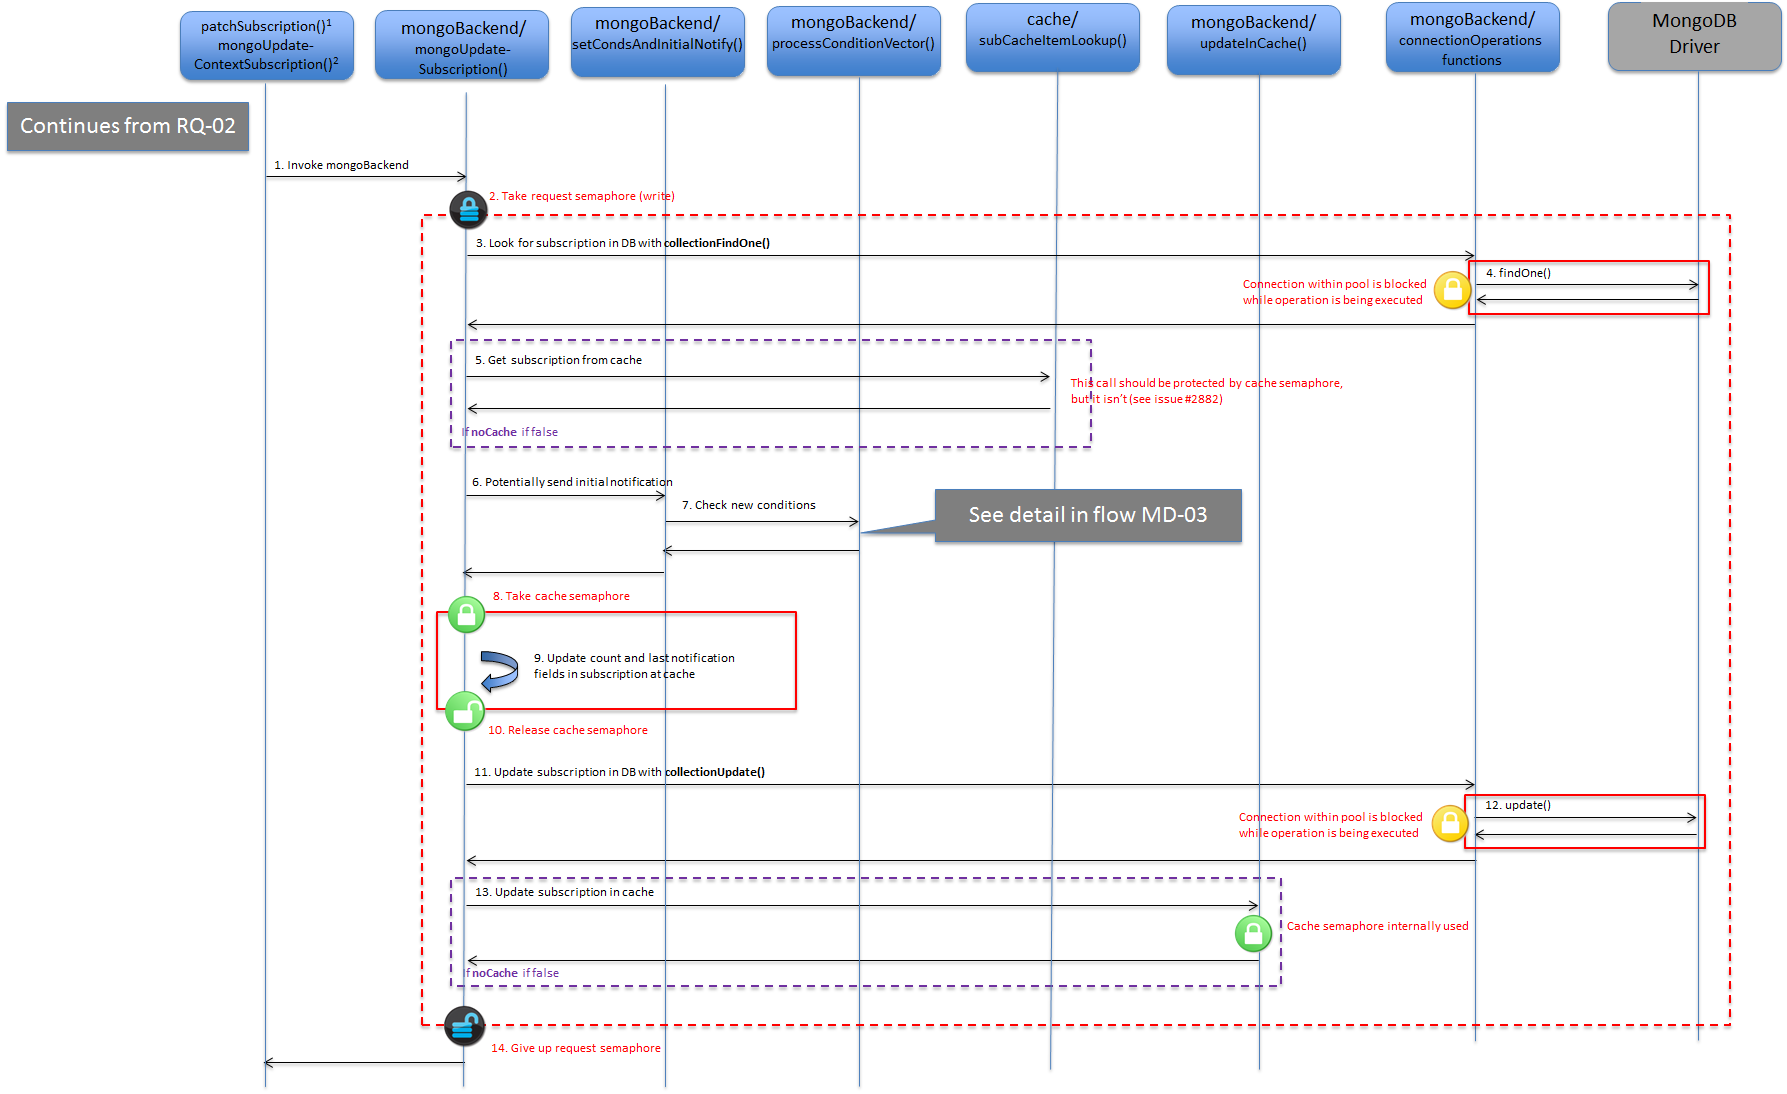
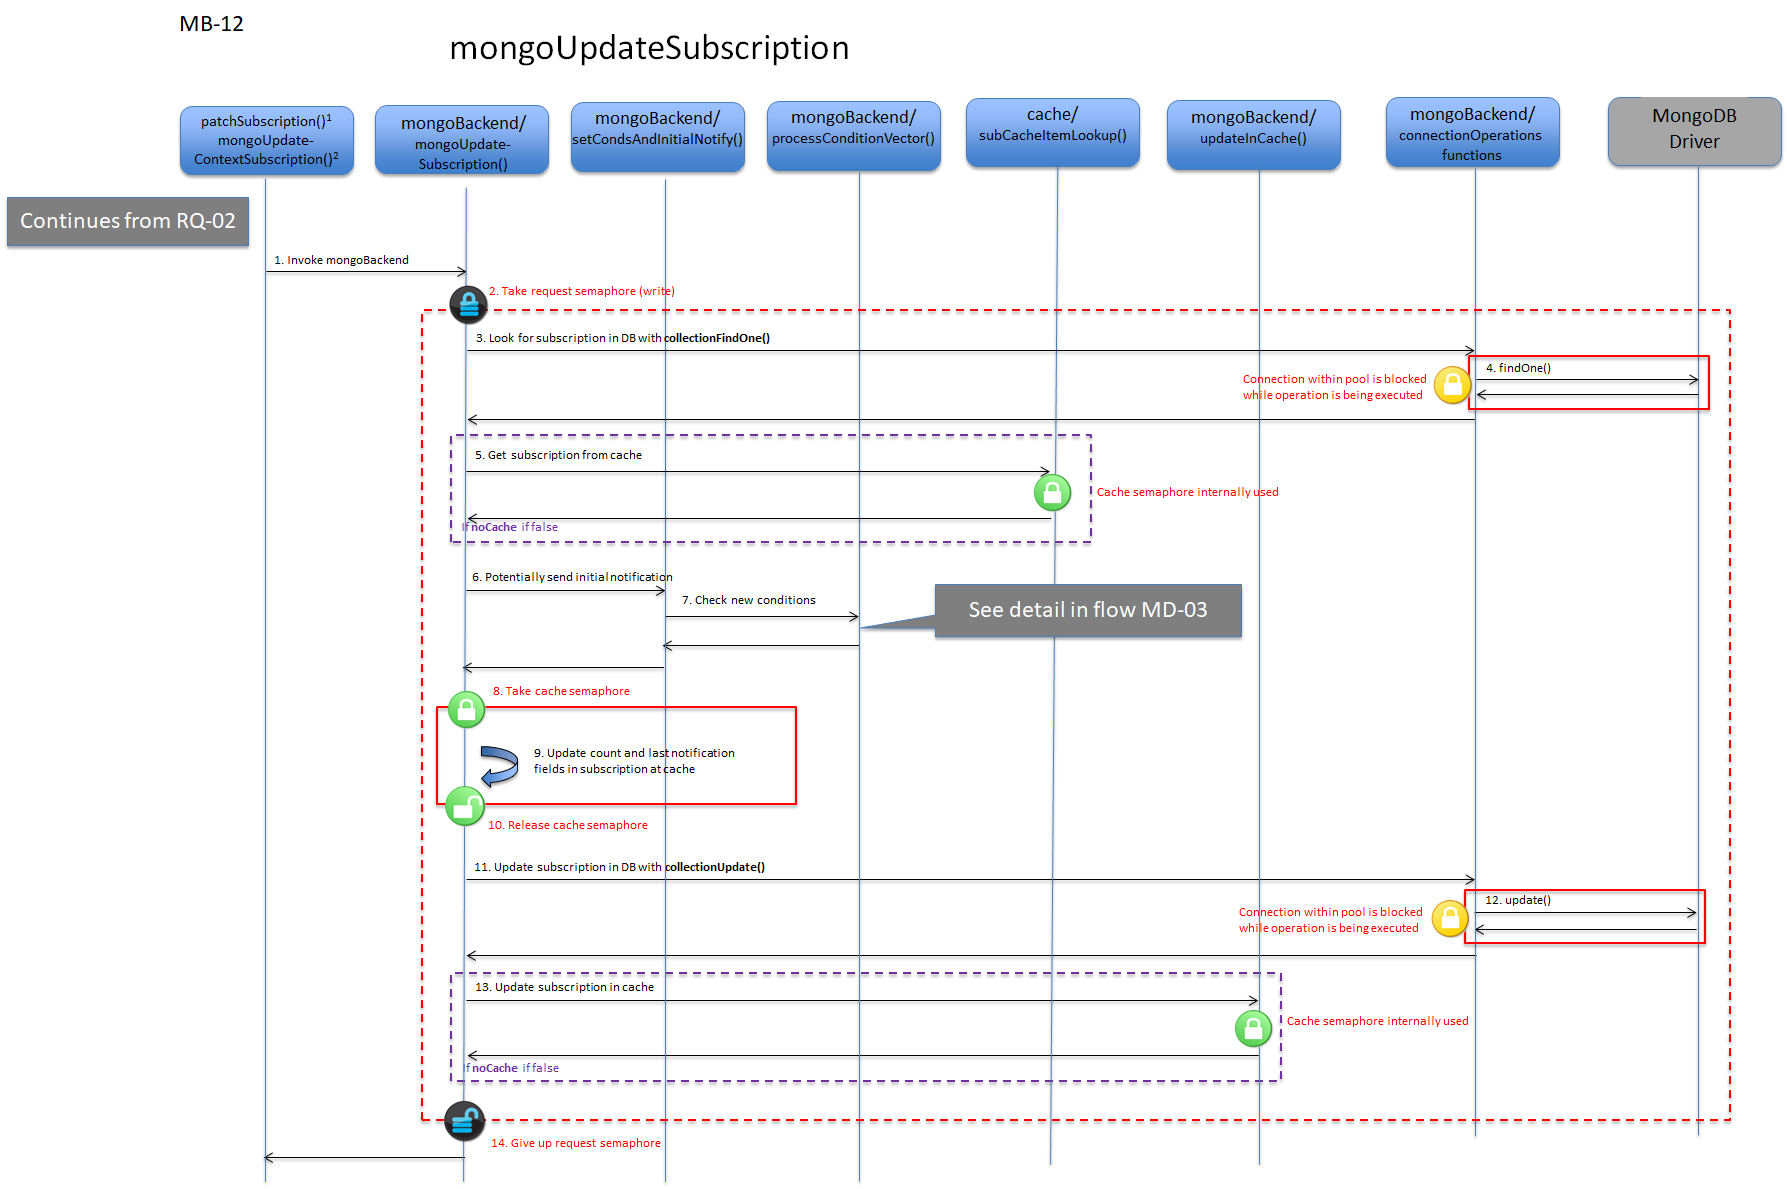
FIX devel documentation MB-12 diagram and description

Changed region(s): [[0.0, 0.0, 1.0, 0.9634], [0.5848, 0.1865, 0.6156, 0.2176]]

diff --git a/doc/manuals/devel/mongoBackend.md b/doc/manuals/devel/mongoBackend.md
@@ -369,7 +369,7 @@ _MB-12: mongoUpdateSubscription_
 * `mongoUpdateSubscription()` is invoked from a service routine (step 1). This can be from either `patchSubscription()` (which resides in `lib/serviceRoutinesV2/patchSubscription.cpp`) or `mongoUpdateContextSubscription()` (which resides in `lib/mongoBackend/mongoUpdateContextSubscription.cpp`).
 * Depending on `-reqMutexPolicy`, the request semaphore may be taken (write mode) (step 2). See [this document for details](semaphores.md#mongo-request-semaphore). 
 * The subscription to be updated is retrieved from the database using `collectionFindOne()` in the `connectionOperations` module (steps 3 and 4).
-* If the subscription cache is enabled (i.e. `noCache` set to `false`) the subscription cache object is also retrieved from the subscription cache using `subCacheItemLoopkup()` in the `cache` module (step 5). This should be protected by the subscription cache semaphore, but currently it isn't (see [this issue](https://github.com/telefonicaid/fiware-orion/issues/2882) for details).
+* If the subscription cache is enabled (i.e. `noCache` set to `false`) the subscription cache object is also retrieved from the subscription cache using `subCacheItemLoopkup()` in the `cache` module (step 5).
 * The BSON object of the final subscription is built, based on the BSON object of the original subscription, using different `set*()` functions similar to the ones in the create subscription case (`setExpiration()`, `setHttpInfo()`, etc.). One of these functions, namely `setCondsAndInitialNotify()`, has the "side effect" of potentially sending initial notifications corresponding to the subscription being updated (called in step 6).
 * This function in sequence uses `processConditionVector()` to actually send notifications (step 7), whose details are described as part of the `MongoGlobal` module section (see diagram [MD-03](#flow-md-03)).
 * The `update`, `count`. and `lastNotification` fields are updated in the subscription cache (step 9). This operation is protected by the subscription cache semaphore (see [this document for details](semaphores.md#subscription-cache-semaphore)) which is taken and released in steps 8 and 10 receptively.
